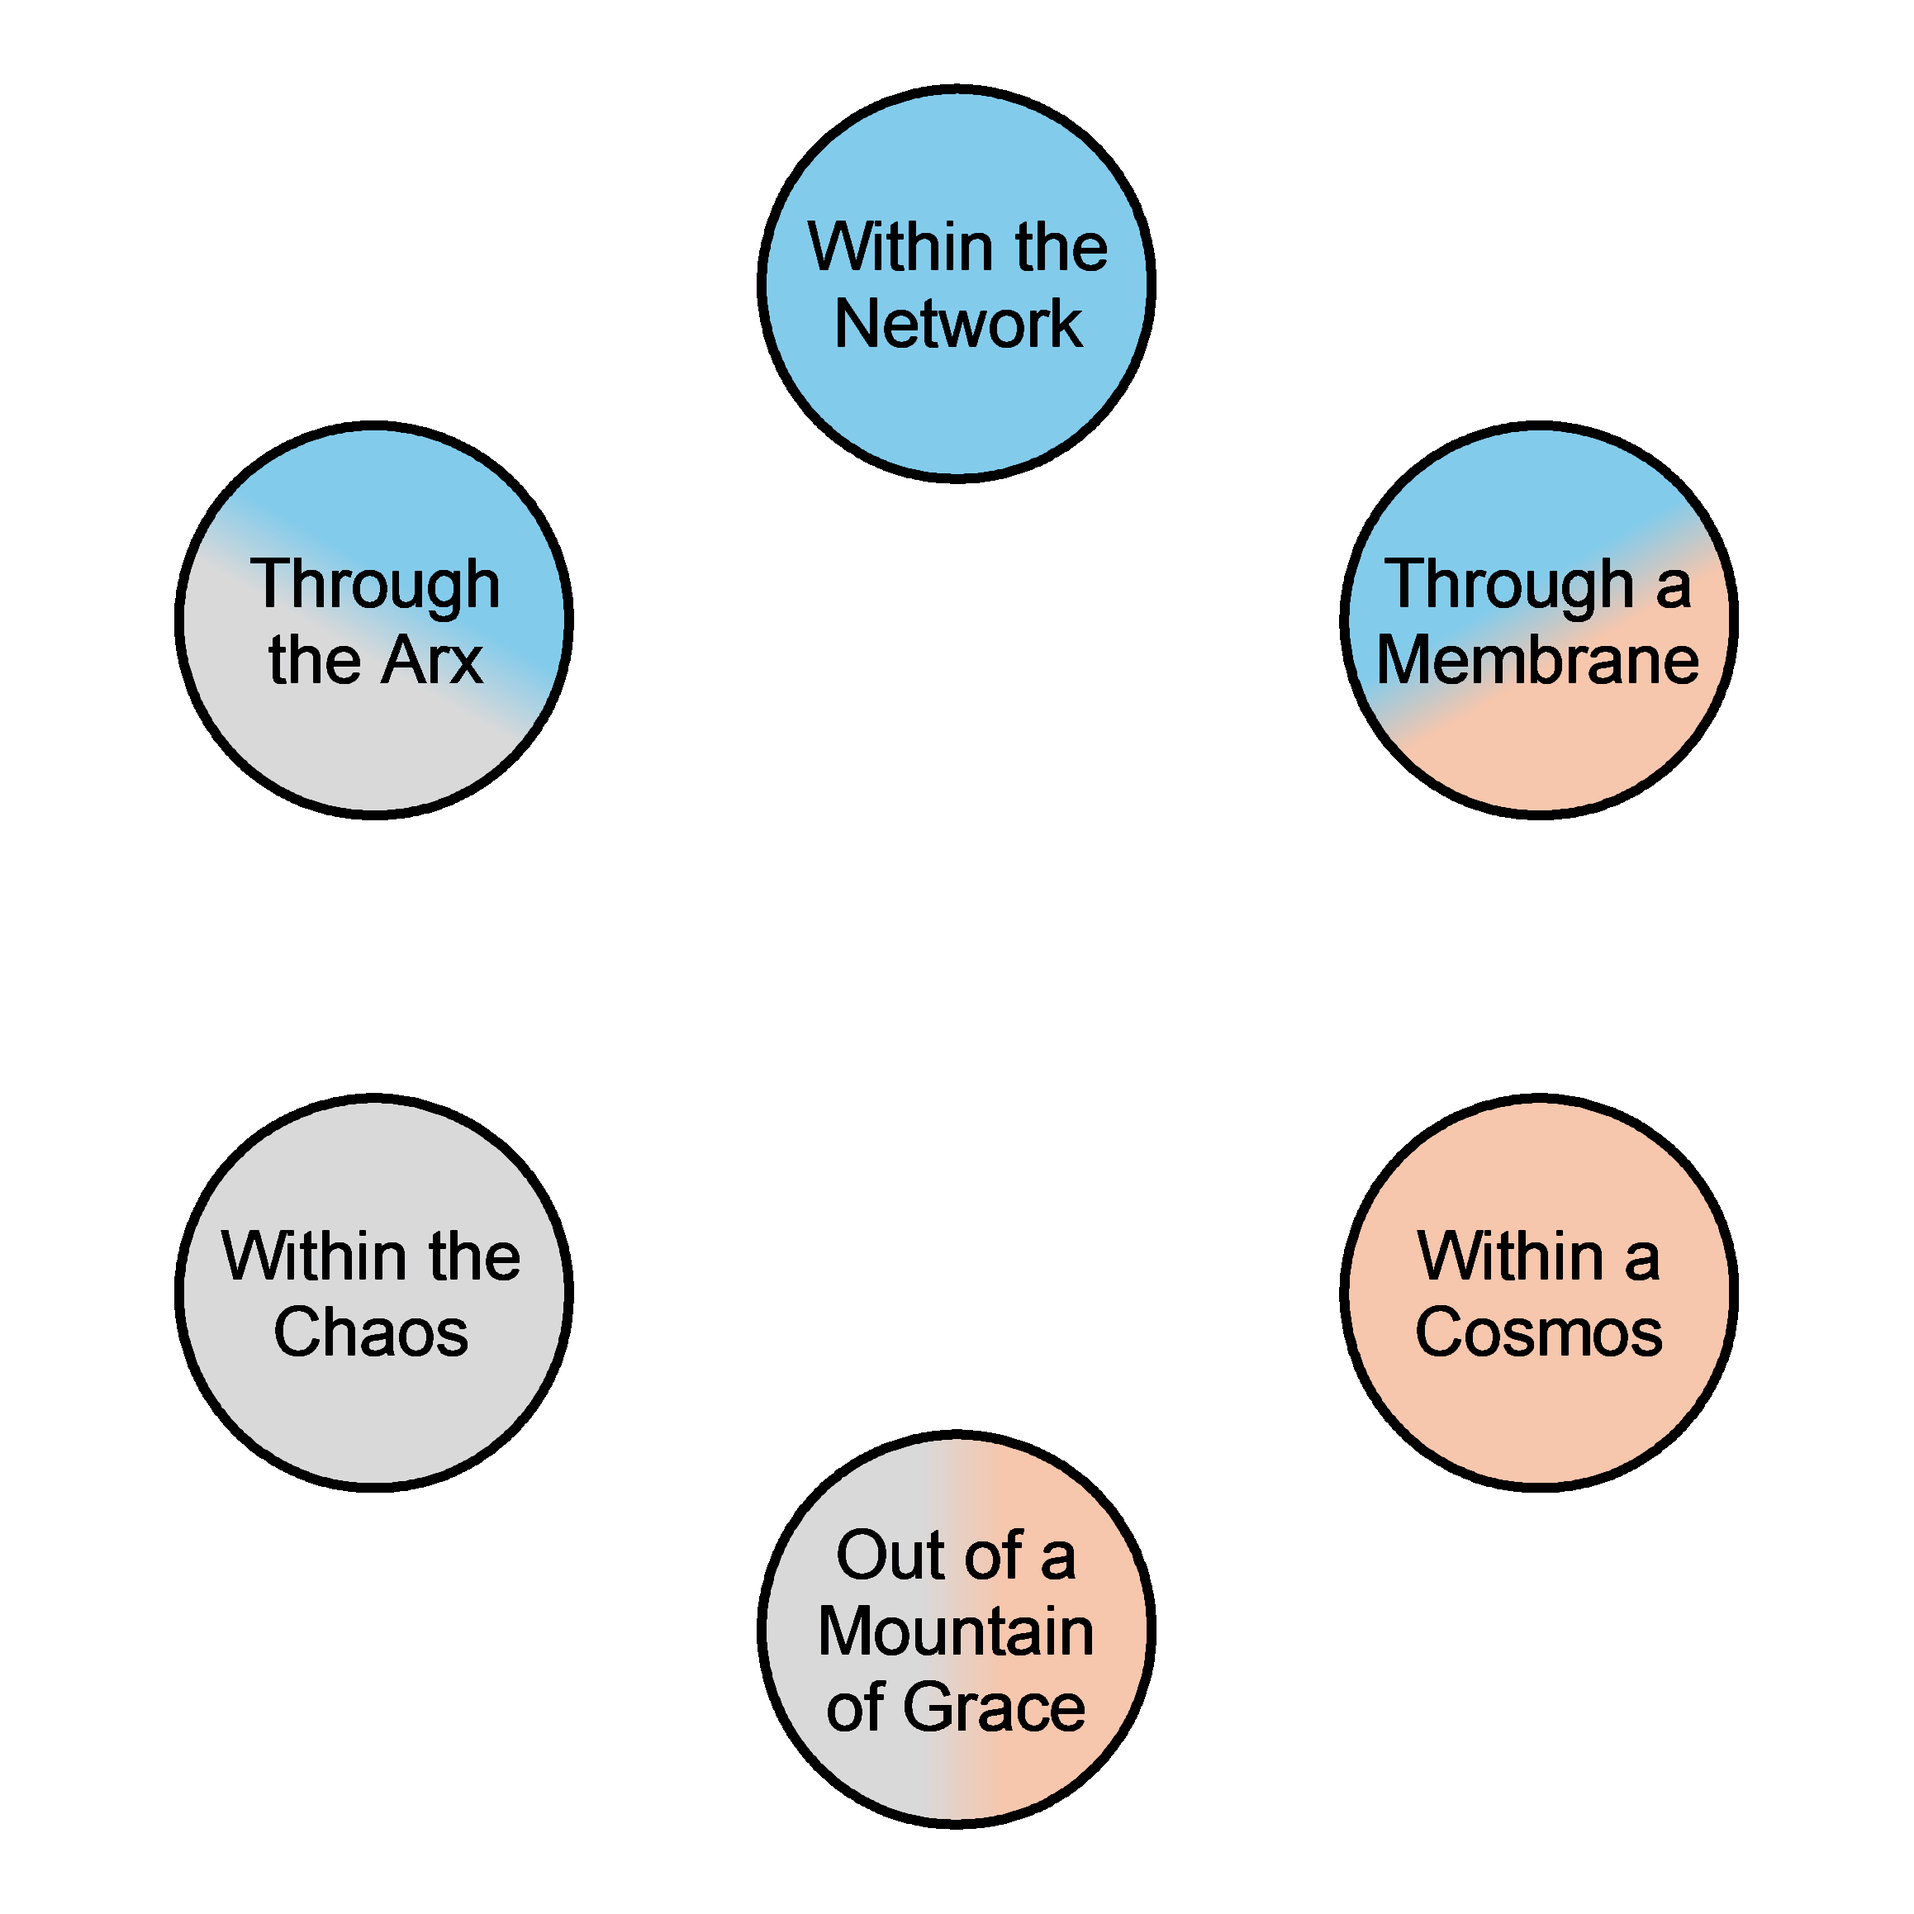
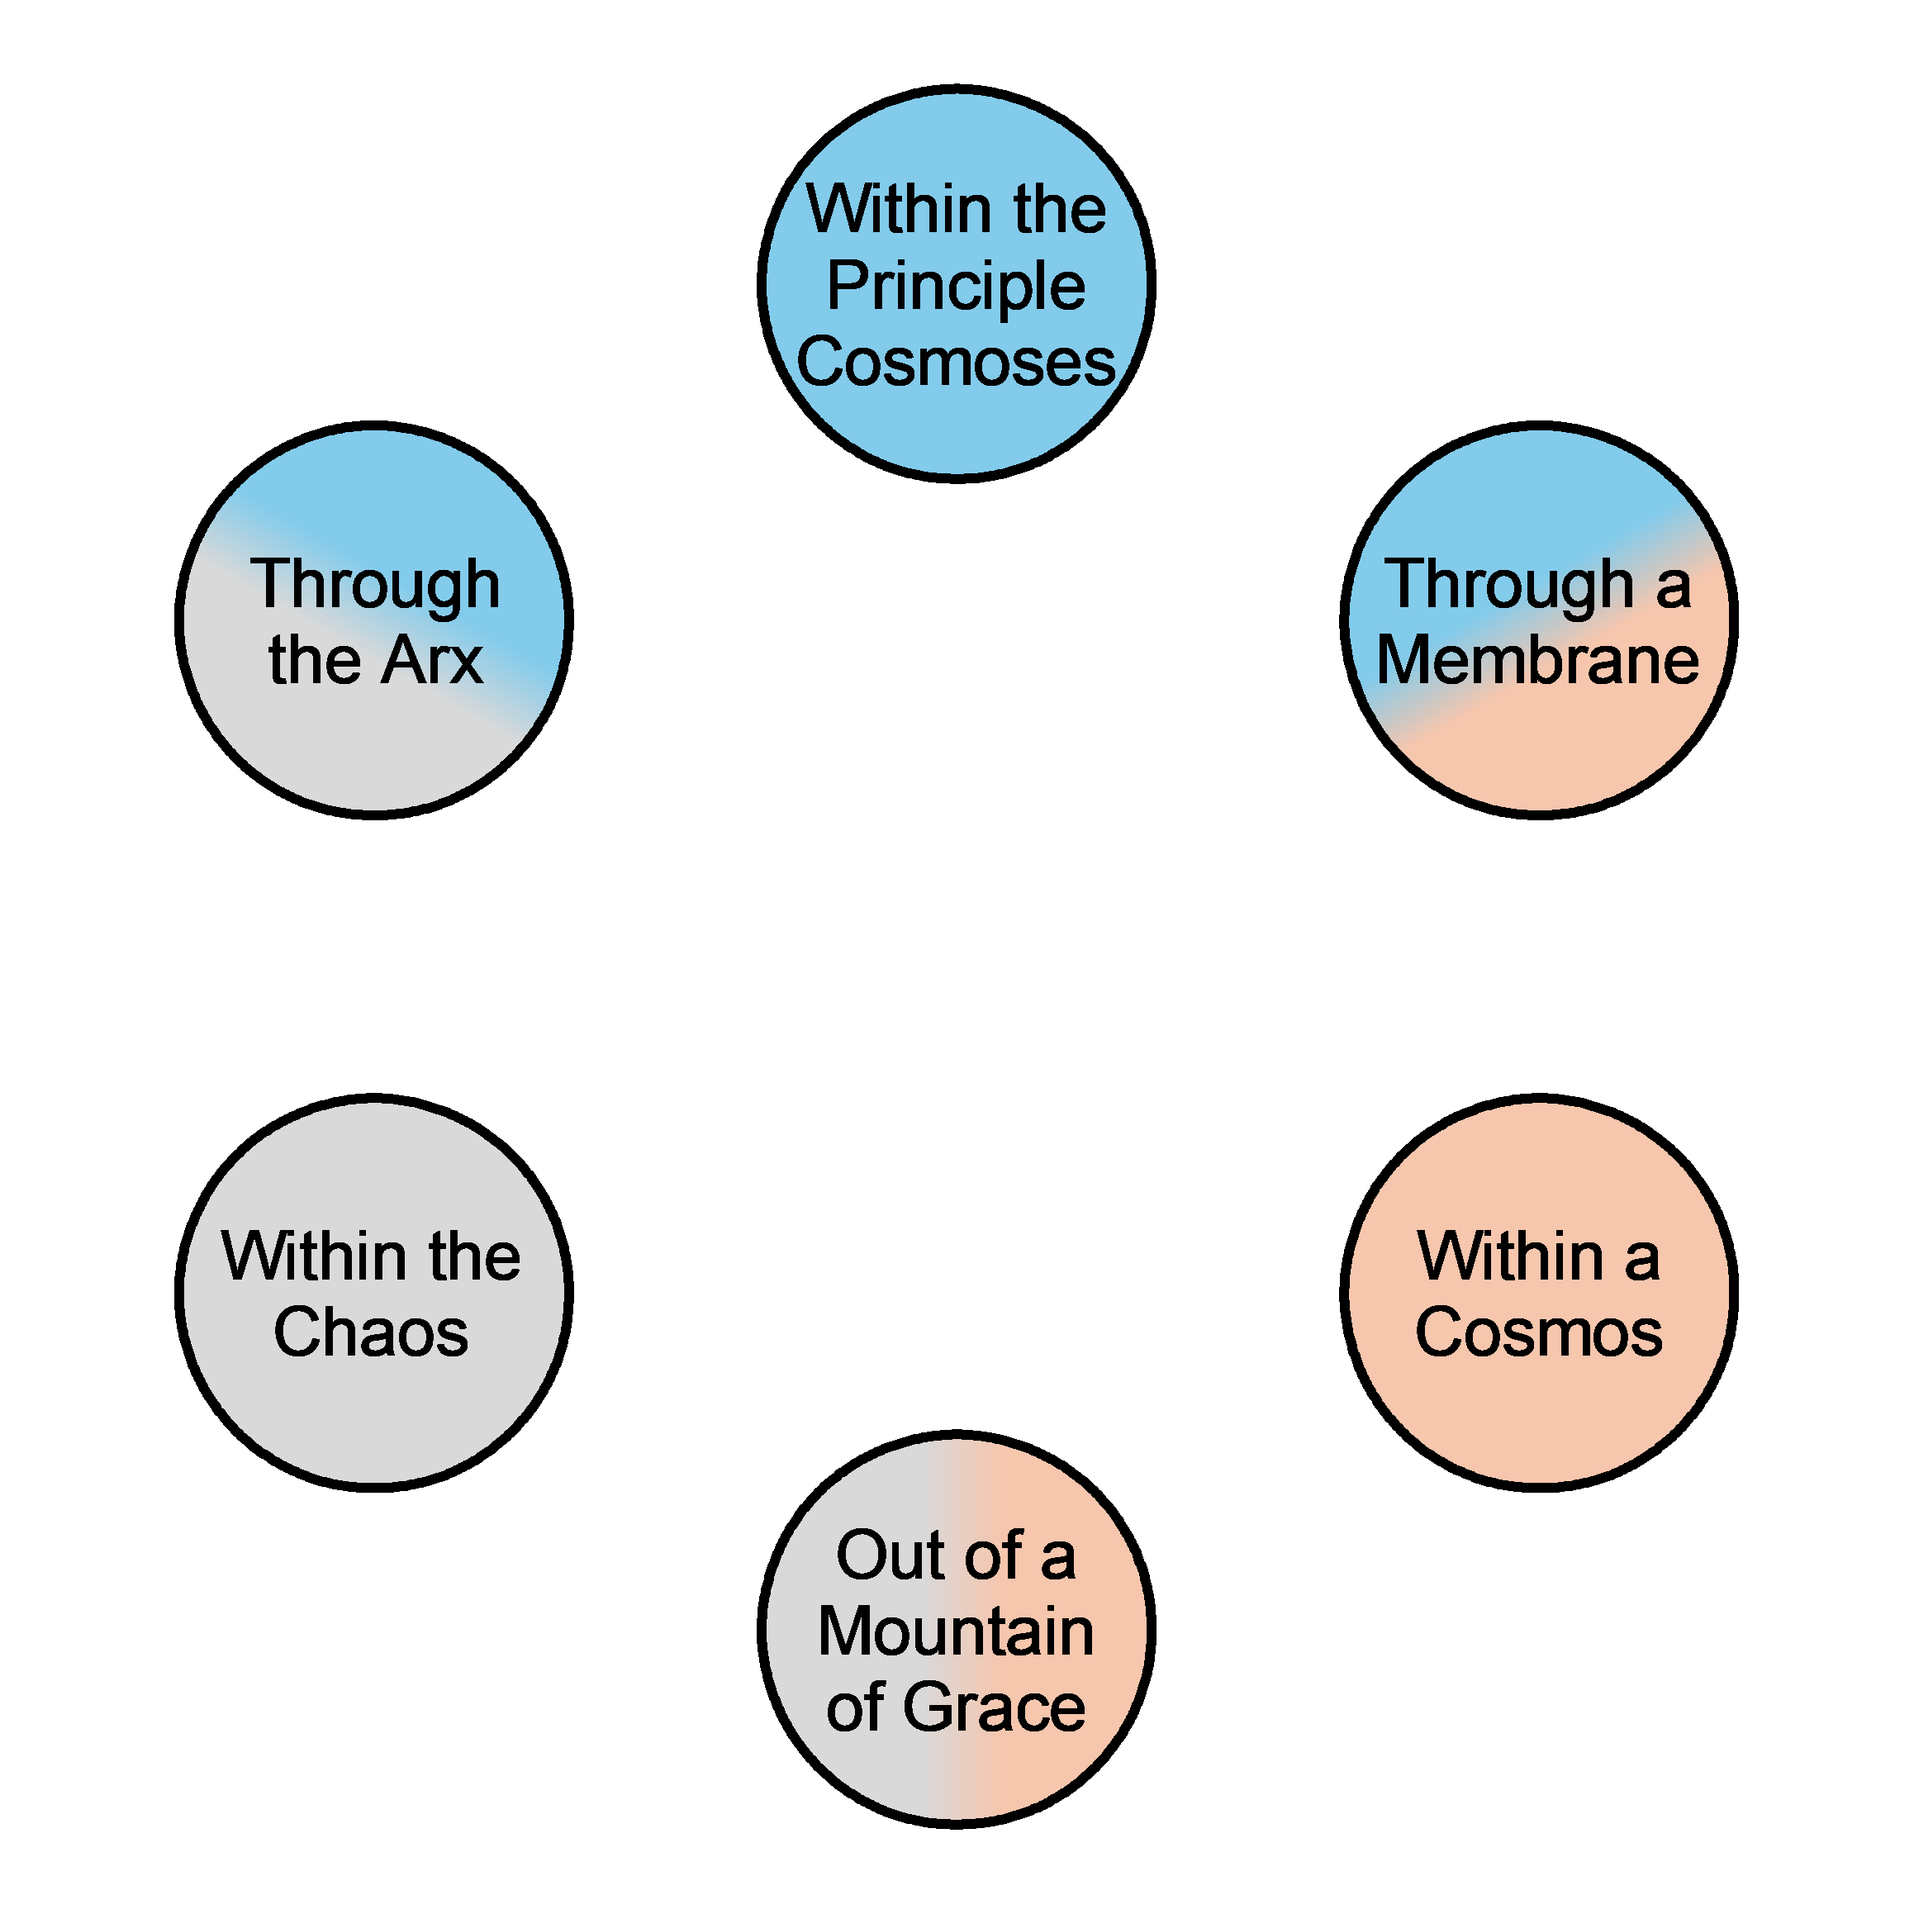
Added grace

Changed region(s): [[0.404, 0.0932, 0.5904, 0.2175]]

diff --git a/Rules Of Grace/grace.md b/Rules Of Grace/grace.md
@@ -1,0 +1,23 @@
+# Grace
+
+| Data Type | Rules |
+| --- | --- |
+| Rule Applies to | All |
+
+## Overview
+
+Grace is the binding force of the [[cosmos]]es. Without grace, everything falls apart. It defines the rules of the universe: how (and if) magic works, the laws of physics, everything. It is found saturating everywhere except [[The chaos (Principle Cosmos)|the chaos]].
+
+Grace can either be Generalised or Specialised. Any form can be stored in a [[grace canister]] to transport through a [[Membrane (grace)|membrane]] and to stop it from spreading out.
+
+## Generalised
+
+Generalised grace is only found in the Principle [[cosmos]]es. This grace is effectively in its natural form. It can be shaped in any way. This allows someone of any [[analogies|analogy]] to use it. However someone trained with a specific type of specialised grace sill needs it to be specialised because you must be trained cast with Generalised grace.
+
+## Specialised
+
+Grace becomes Specialised in two ways.
+
+The first is by casting generalised grace. As soon as it gets used by someone with a specific [[analogies|analogy]] it becomes specialised. But it also immediately returns to [[The chaos (Principle Cosmos)|the chaos]] (through [[the Arx]]) to be generalised again.
+
+The second is by traveling through a [[Membrane (grace)|membrane]]. This is the mechanism by which the [[cosmos]]es become unique from each other. When magic is used within a world, it's no longer considered casting grace since it has become reshaped into something different.

diff --git a/Rules Of Grace/Flow of Grace.md b/Rules Of Grace/Flow of Grace.md
@@ -10,7 +10,7 @@
 
 [[grace]] is never created nor destroyed. Only moved and reshaped. Mostly, it acts like a gas, filling the space it's within. The cycle is as follows.
 
-- Within [[The Network (Principle Cosmos)|The Network]]
+- Within the principle [[cosmos]]es (Except for [[The chaos (Principle Cosmos)|The chaos]])
   - Saturated with grace
   - grace is generalized
   - When grace is used/cast here, it goes straight through [[the Arx]] and back again.
@@ -27,7 +27,7 @@
   - It becomes very unpredictable, hence the abilities of [[Oracle Soul]]s
 - Through [[the Arx]]
   - grace becomes fully Generalized
-- Re-entering [[The Network (Principle Cosmos)|The Network]] the cycle repeats
+- Re-entering the principle [[cosmos]]es the cycle repeats
 
 Here is a diagram:
 

diff --git a/PrincipleCosmoses/The chaos (Principle Cosmos).md b/PrincipleCosmoses/The chaos (Principle Cosmos).md
@@ -16,3 +16,7 @@ The chaos is the place where the worlds were created. (See [[The Genesis (Event)
 The entire terrain of the chaos is rocky and uneven. There is no life here. Throughout the landscape are various [[Mountains of Grace|mountains]] spire-ing up from the ground. The largest of these is at the centre (or more to the point is used to define the center) and is known as [[the Arx]]. It used to be occupied by [[Genesis (being)|Genesis]].
 
 ![[10000Mountains.png]]
+
+## Grace
+
+This is the only place where [[grace]] can become generalized again. And the only way that it can re-enter the [[cosmos]]es after being used.
